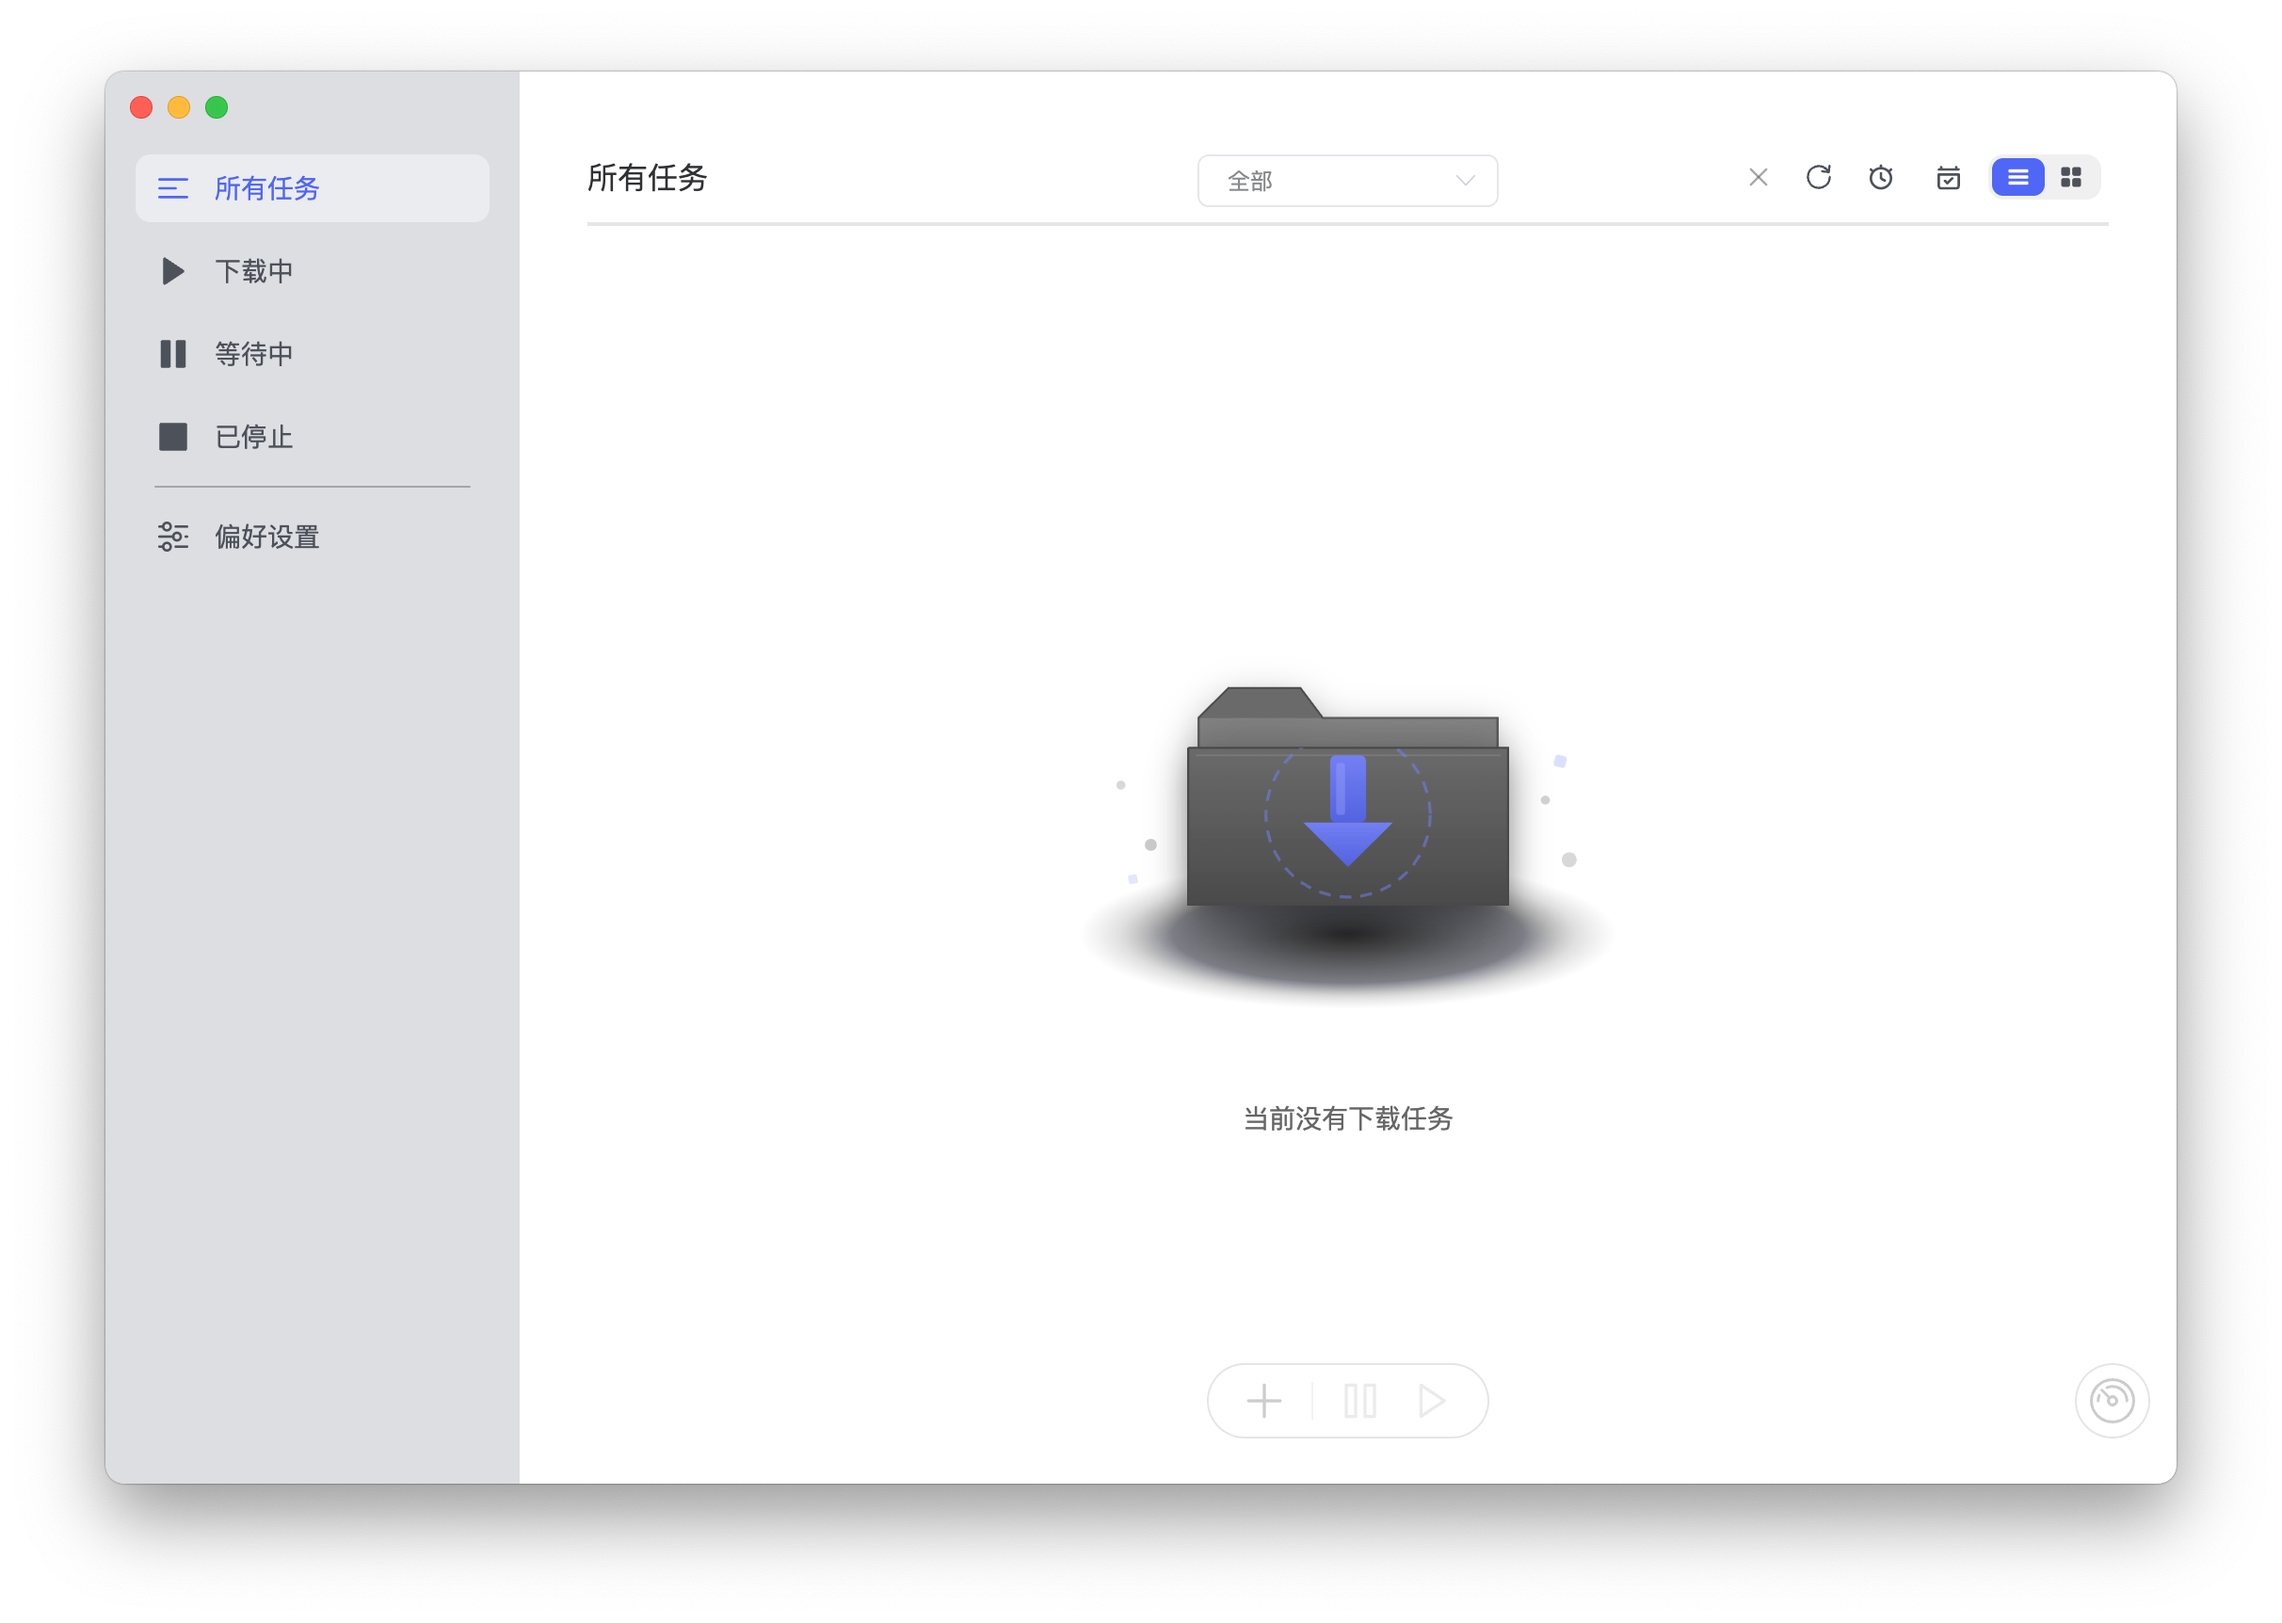
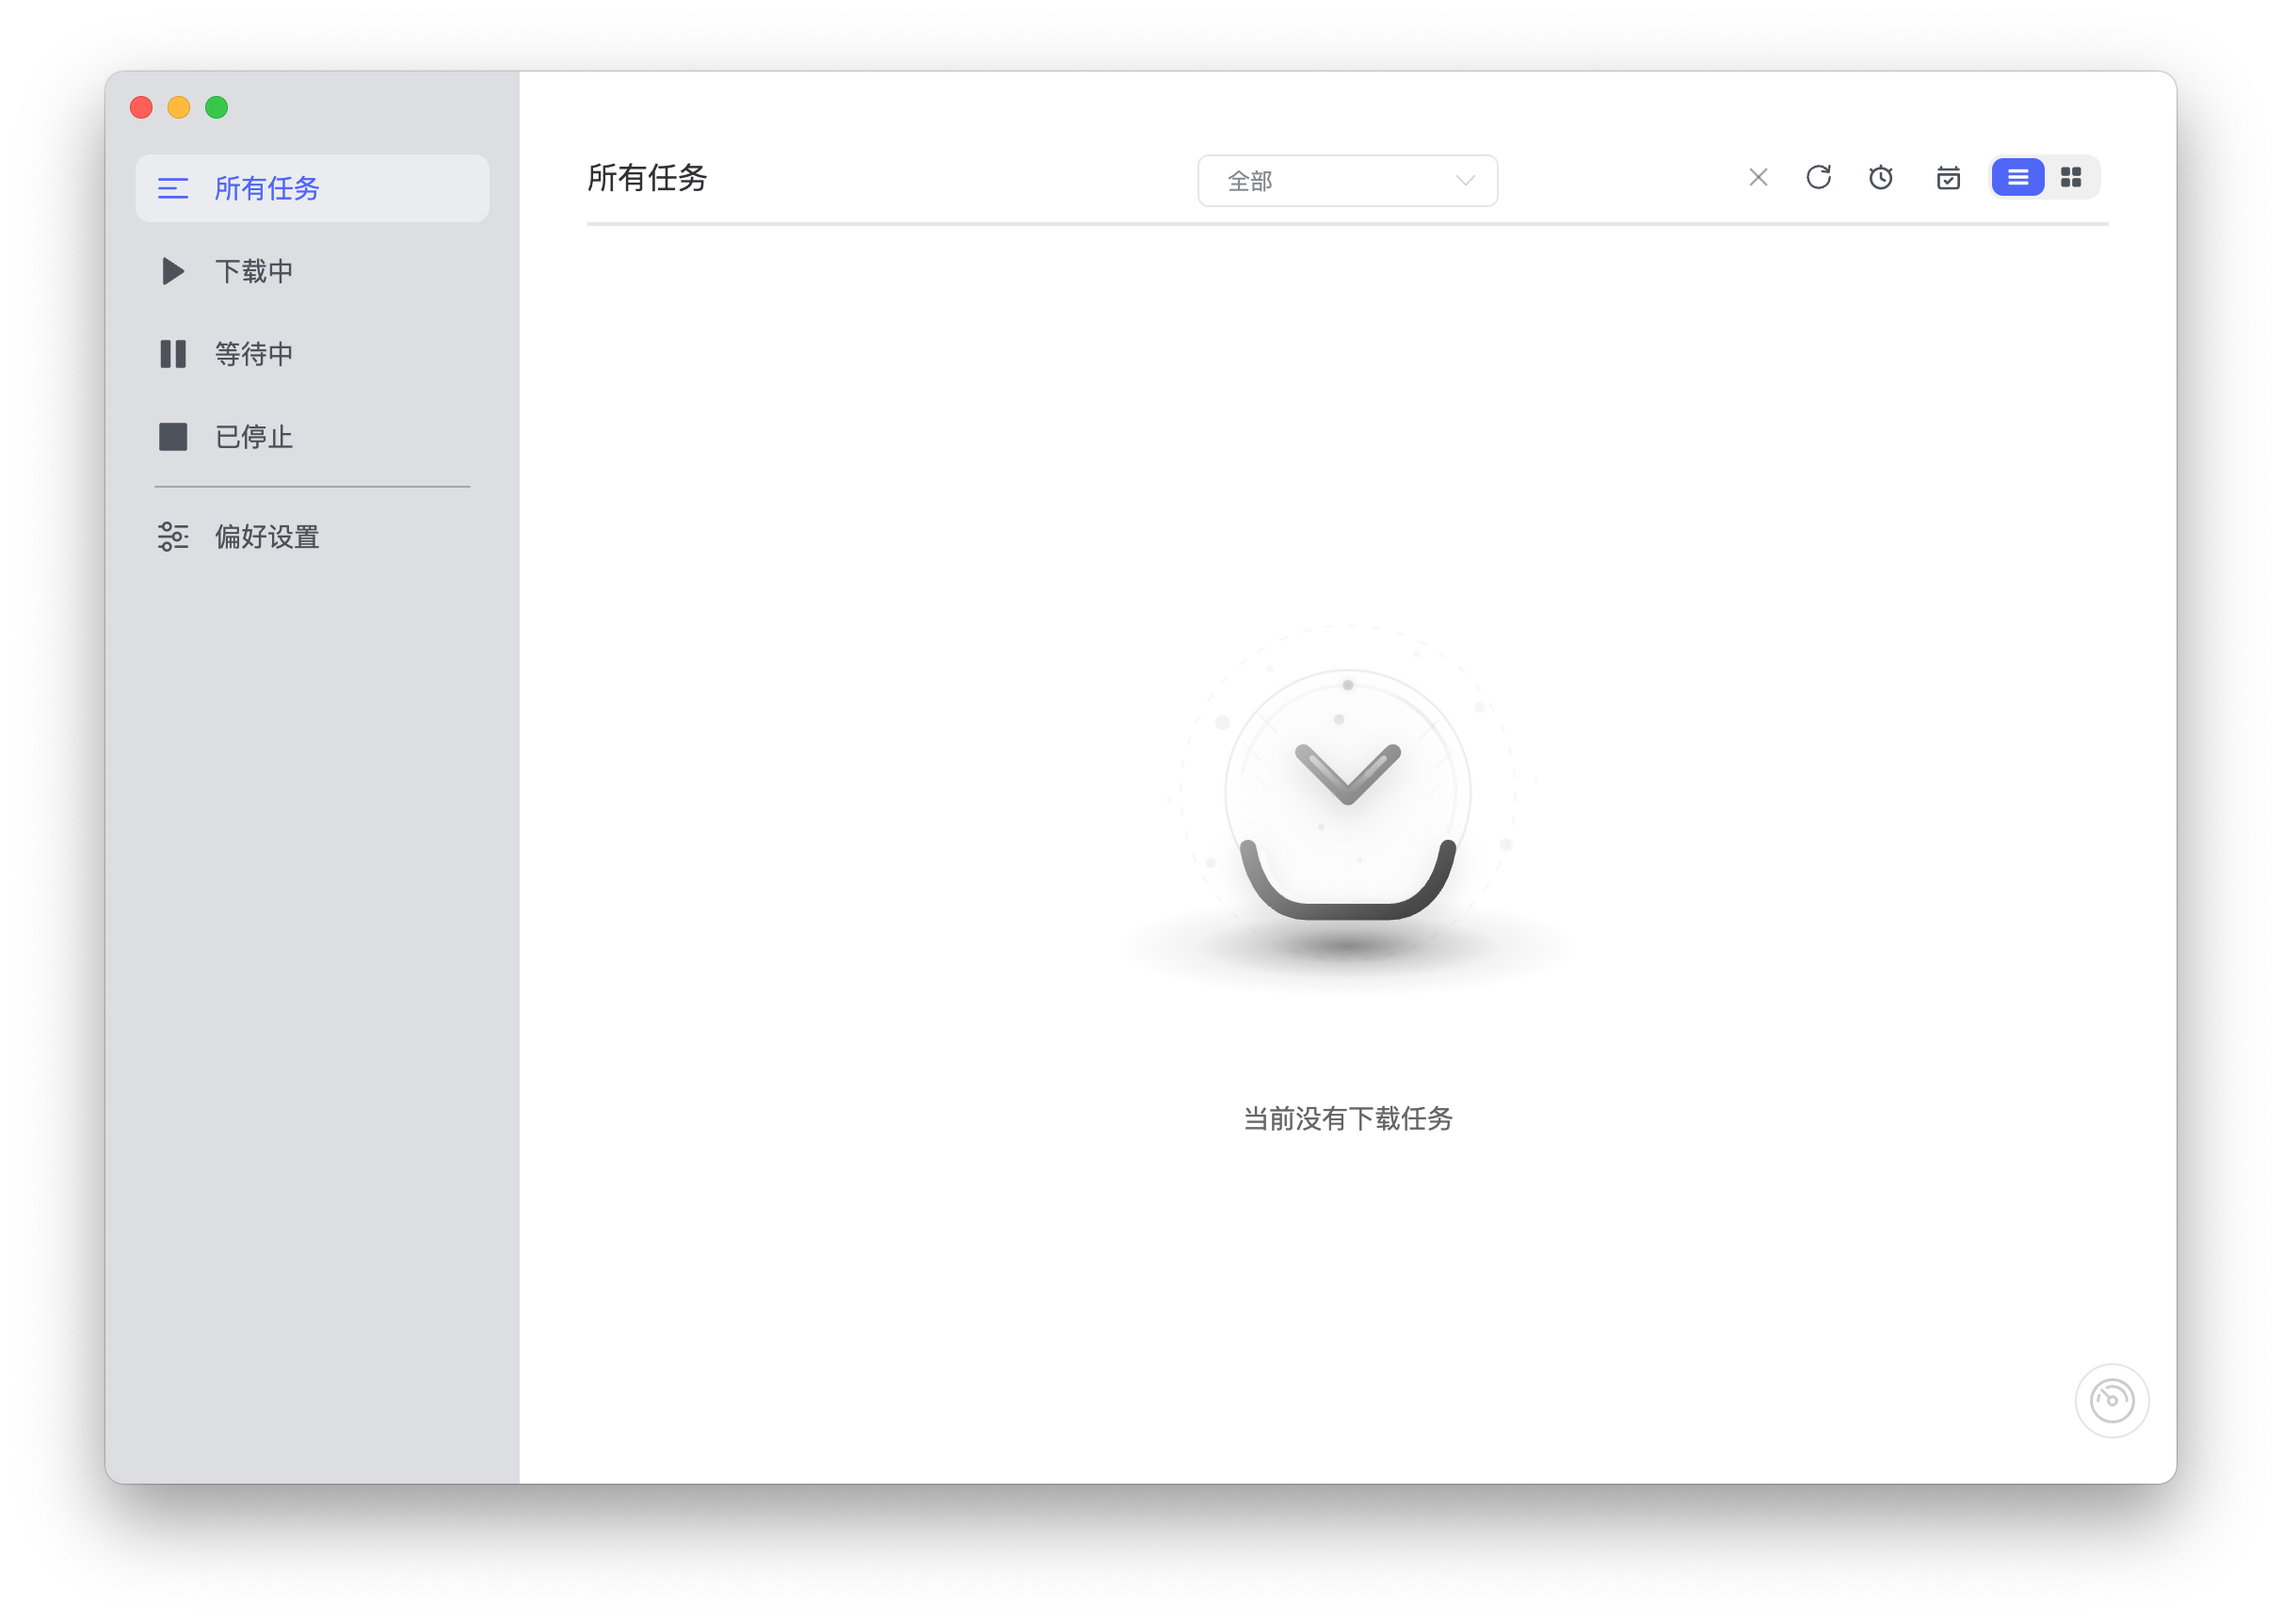
2.3.8

Changed region(s): [[0.4641, 0.3997, 0.7116, 0.6148]]

diff --git a/extensions/linkcore-webextension/video-sniffer.js b/extensions/linkcore-webextension/video-sniffer.js
@@ -1349,7 +1349,12 @@
         })
         
         if (rangeResponse.ok) {
-          const contentRange = rangeResponse.headers.get('Content-Range')
+          let contentRange = null
+          try {
+            contentRange = rangeResponse.headers.get('Content-Range')
+          } catch (e) {
+            // CORS 限制，无法读取 Content-Range 头
+          }
           if (contentRange) {
             // Content-Range: bytes 0-1023/1234567
             const match = contentRange.match(/bytes \d+-\d+\/(\d+)/)
@@ -1823,7 +1828,12 @@
       fetchPromise.then(response => {
         const contentType = response.headers.get('Content-Type')
         const contentLength = response.headers.get('Content-Length')
-        const contentRange = response.headers.get('Content-Range')
+        let contentRange = null
+        try {
+          contentRange = response.headers.get('Content-Range')
+        } catch (e) {
+          // CORS 限制，无法读取 Content-Range 头
+        }
         const contentEncoding = response.headers.get('Content-Encoding')
         
         let size = 0
